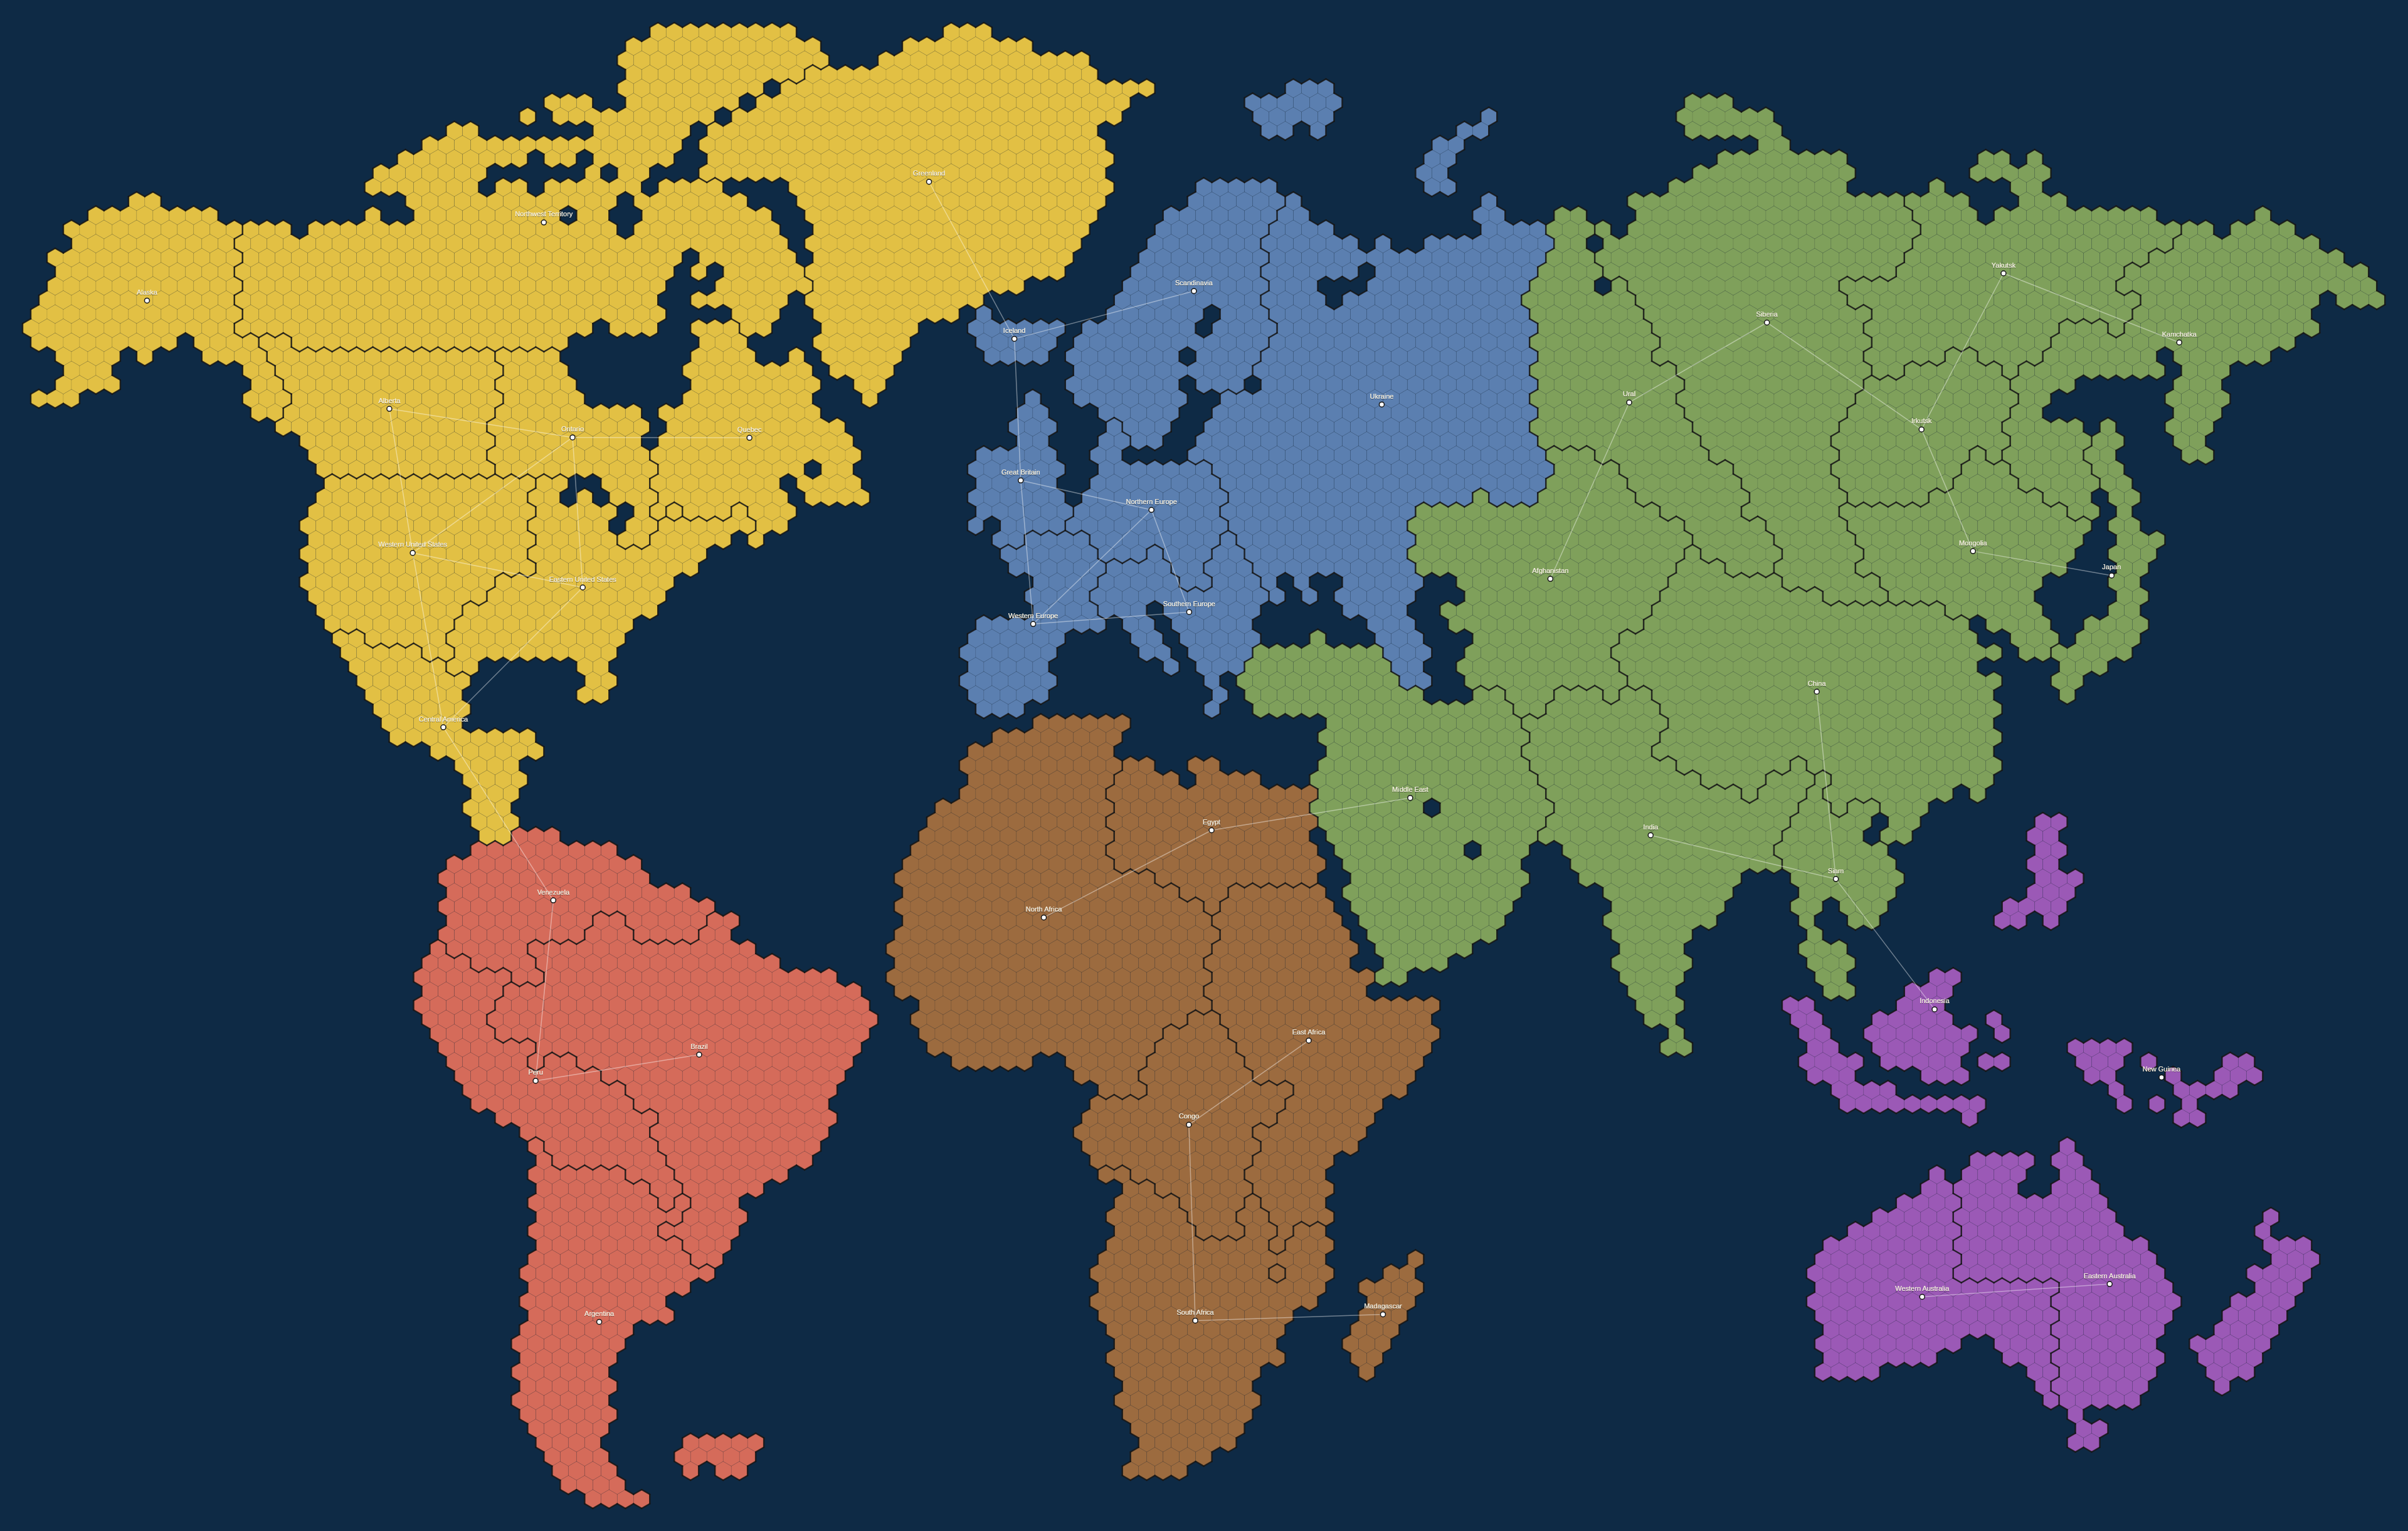
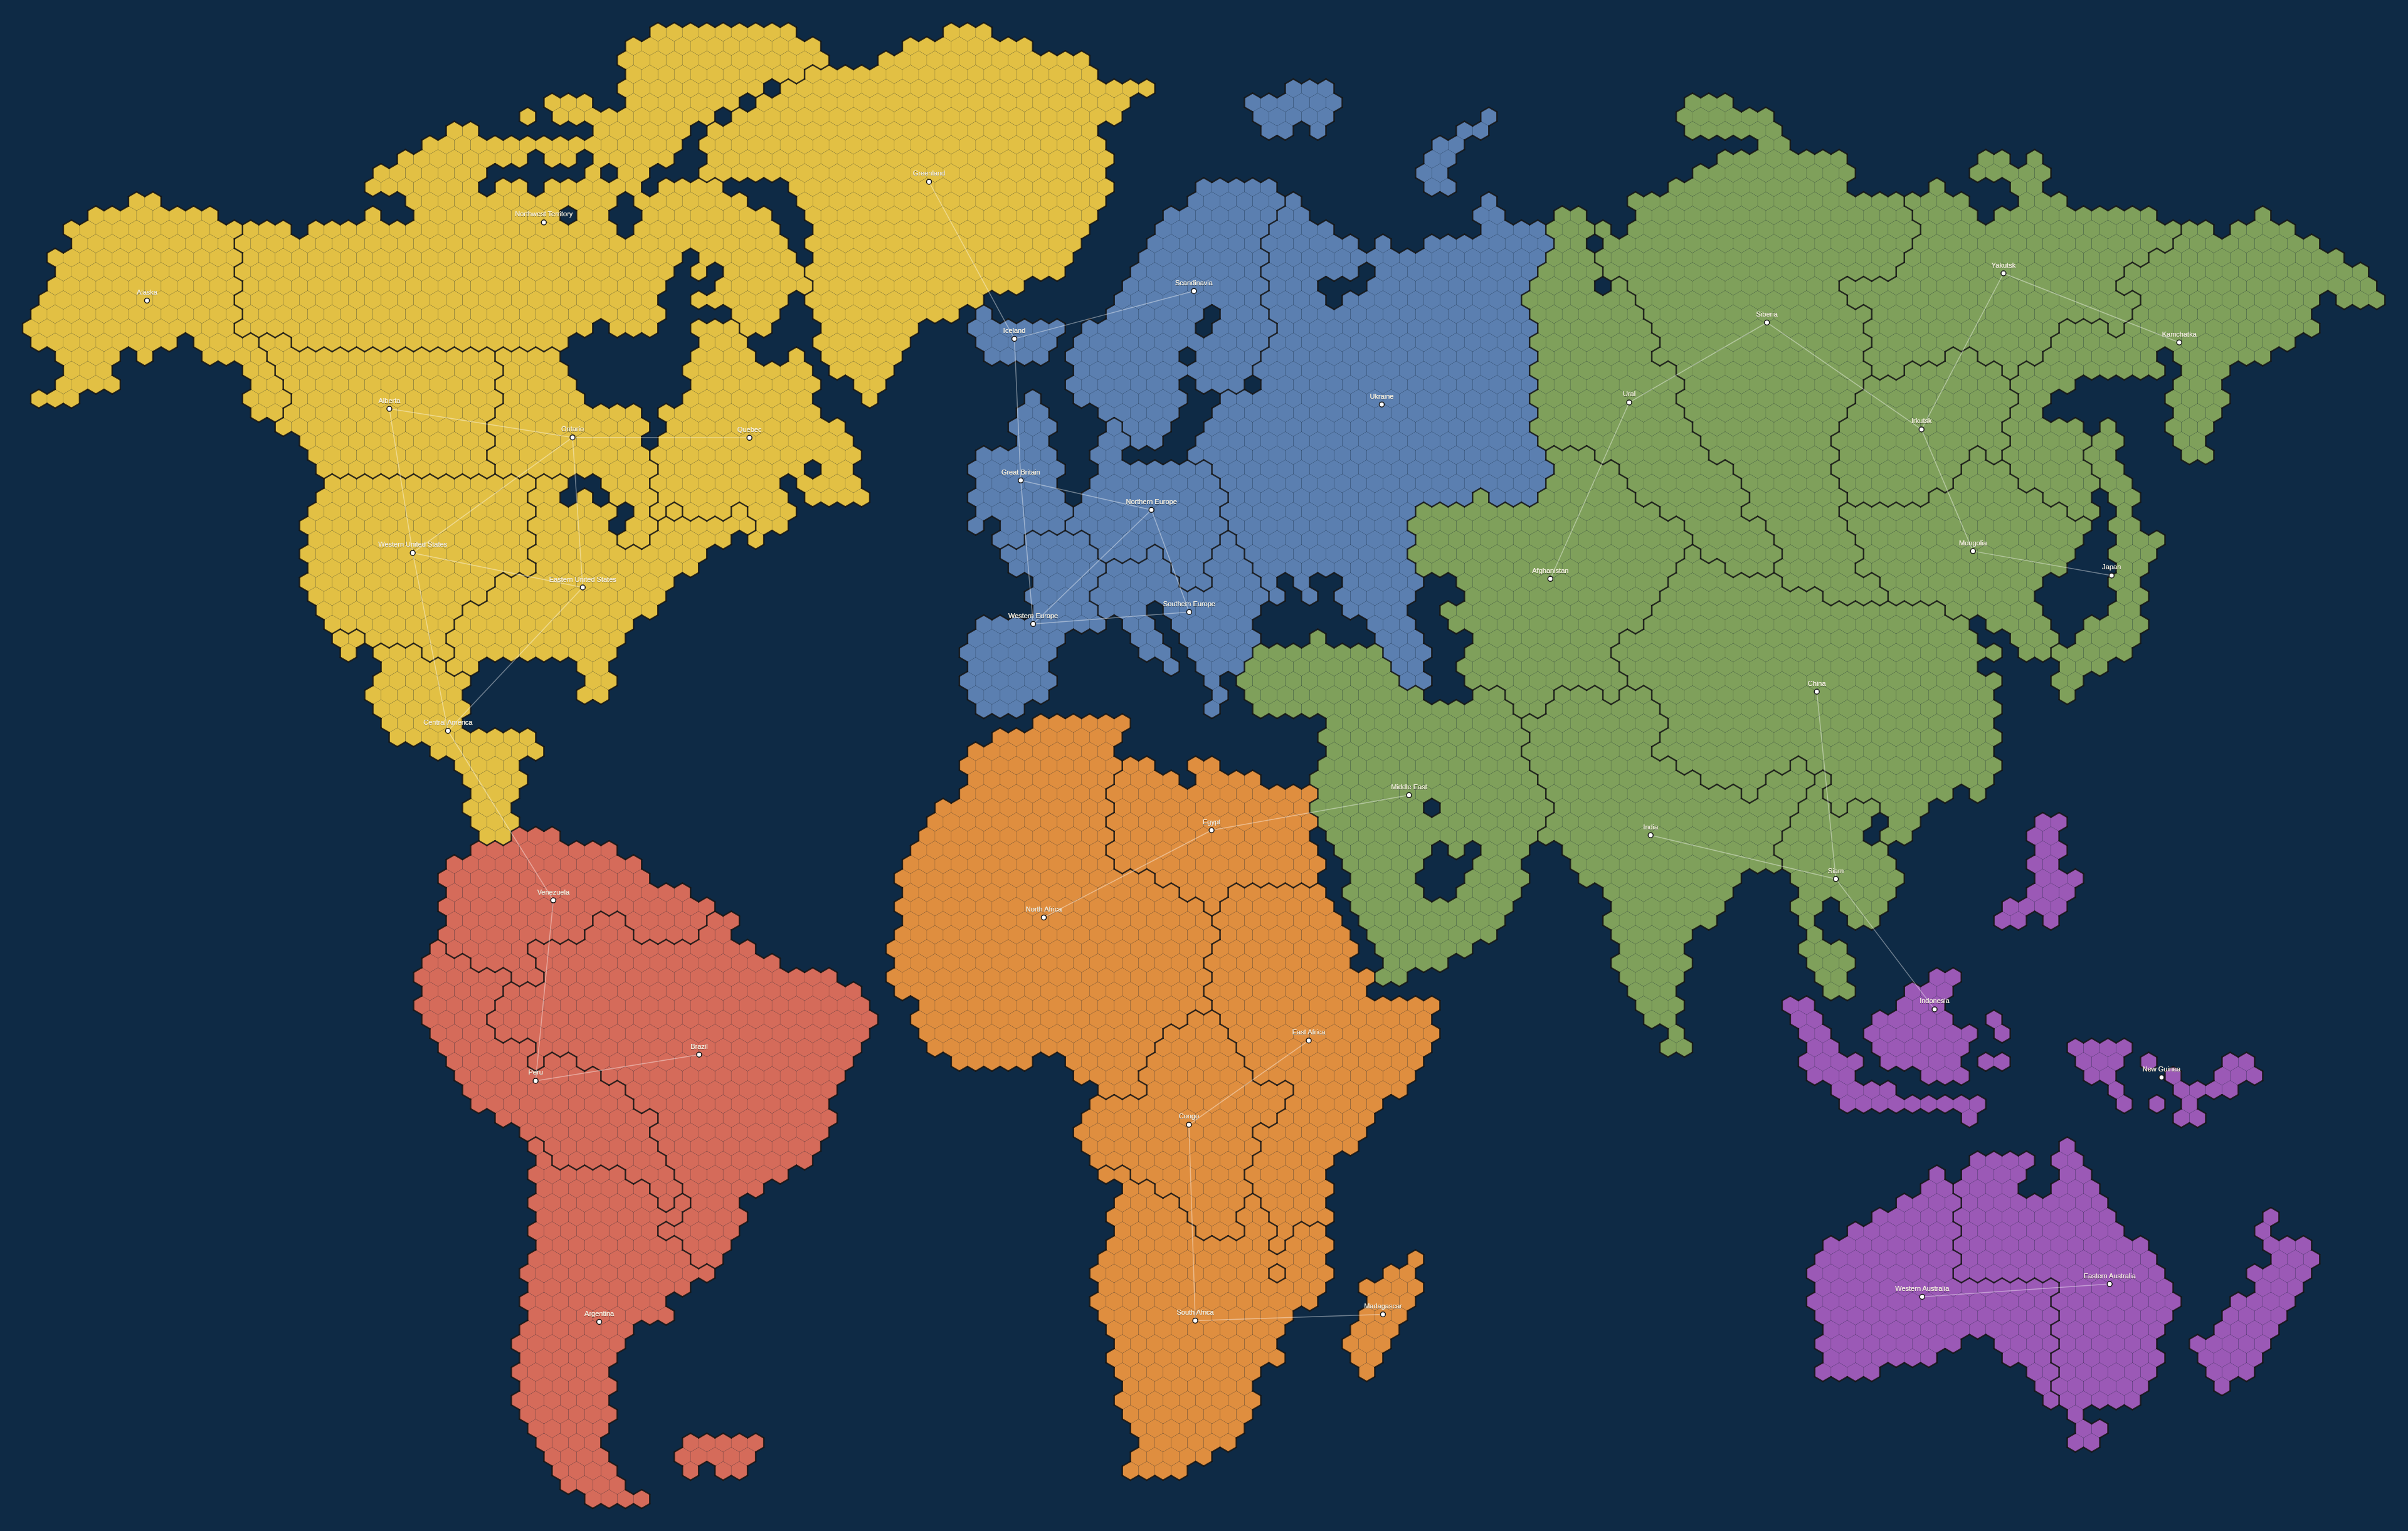
Aesthetics: light/dark theme, orange Africa, gulf seas, arced Bering edge
- Light/dark toggle in the HUD: light mode uses an off-white background and
  parchment ocean, dark edges; dark mode unchanged. Scene background, ocean,
  and graph-edge colour switch with the theme.
- Africa recoloured from brown to an orange that matches the continent tints.
- Added Gulf of California and Persian Gulf as a few carved ocean hexes
  (hand-placed extra seas in import-svg.mjs).
- The long Alaska–Kamchatka sea route now arcs up and over the map instead
  of cutting a straight line through other territories.

Claude-Session: https://claude.ai/code/session_016sjHzkKoWzqqP1Fyceoo1a

Changed region(s): [[0.3438, 0.4668, 0.625, 0.9648], [0.125, 0.4046, 0.1562, 0.4668]]

diff --git a/src/main.js b/src/main.js
@@ -123,17 +123,26 @@ for (const id of Object.keys(T)) {
   n.position.copy(centers[id]).setY(NODE_Y);
   graphGroup.add(n);
 }
-const edgePts = [];
+const edgeMat = new THREE.LineBasicMaterial({ color: 0xffffff, transparent: true, opacity: 0.4 });
+const straightPts = [];
 for (const id of Object.keys(T)) {
   for (const other of T[id].adjacent) {
     if (id >= other) continue;
-    edgePts.push(centers[id].clone().setY(NODE_Y), centers[other].clone().setY(NODE_Y));
+    const a = centers[id].clone().setY(NODE_Y), z = centers[other].clone().setY(NODE_Y);
+    const d = a.distanceTo(z);
+    if (d > span * 0.5) {
+      // long sea routes (e.g. Alaska–Kamchatka) arc up over the map so they
+      // stay visible and don't slice through other territories.
+      const mid = a.clone().add(z).multiplyScalar(0.5);
+      mid.y = NODE_Y + d * 0.5;
+      const curve = new THREE.QuadraticBezierCurve3(a, mid, z);
+      graphGroup.add(new THREE.Line(new THREE.BufferGeometry().setFromPoints(curve.getPoints(48)), edgeMat));
+    } else {
+      straightPts.push(a, z);
+    }
   }
 }
-const edges = new THREE.LineSegments(
-  new THREE.BufferGeometry().setFromPoints(edgePts),
-  new THREE.LineBasicMaterial({ color: 0xffffff, transparent: true, opacity: 0.4 })
-);
+const edges = new THREE.LineSegments(new THREE.BufferGeometry().setFromPoints(straightPts), edgeMat);
 graphGroup.add(edges);
 scene.add(graphGroup);
 
@@ -202,6 +211,25 @@ for (const [, c] of Object.entries(C)) {
 }
 document.getElementById('toggle-graph').addEventListener('change', (e) => graphGroup.visible = e.target.checked);
 document.getElementById('toggle-labels').addEventListener('change', (e) => labelGroup.visible = e.target.checked);
+
+// ---- light / dark theme ----
+const THEMES = {
+  dark:  { bg: '#0c2238', ocean: '#0e2a45', edge: 0xffffff, edgeOpacity: 0.40 },
+  light: { bg: '#f1ead7', ocean: '#f6f1e4', edge: 0x2b4a63, edgeOpacity: 0.55 },
+};
+function applyTheme(name) {
+  const t = THEMES[name];
+  scene.background.set(t.bg);
+  ocean.material.color.set(t.ocean);
+  edgeMat.color.setHex(t.edge);
+  edgeMat.opacity = t.edgeOpacity;
+  document.body.classList.toggle('light', name === 'light');
+  themeBtn.textContent = name === 'light' ? '◐ Dark' : '◑ Light';
+  themeBtn.dataset.mode = name;
+}
+const themeBtn = document.getElementById('theme');
+themeBtn.addEventListener('click', () => applyTheme(themeBtn.dataset.mode === 'light' ? 'dark' : 'light'));
+applyTheme('dark');
 
 addEventListener('resize', () => {
   camera.aspect = innerWidth / innerHeight;

diff --git a/index.html b/index.html
@@ -8,7 +8,8 @@
     :root { color-scheme: dark; }
     * { margin: 0; box-sizing: border-box; }
     html, body { height: 100%; background: #0c2238; overflow: hidden;
-      font-family: ui-sans-serif, system-ui, sans-serif; }
+      font-family: ui-sans-serif, system-ui, sans-serif; transition: background .25s; }
+    body.light { background: #f1ead7; }
     #app { position: fixed; inset: 0; }
     #hud {
       position: fixed; top: 14px; left: 14px; padding: 12px 14px;
@@ -16,11 +17,17 @@
       border-radius: 10px; color: #e8eef5; font-size: 13px; max-width: 260px;
       backdrop-filter: blur(4px);
     }
+    body.light #hud { background: rgba(252,248,238,0.82); border-color: rgba(0,0,0,0.12); color: #2a2620; }
     #hud h1 { font-size: 15px; margin-bottom: 6px; }
     #hud .row { display: flex; align-items: center; gap: 8px; margin: 3px 0; }
     #hud .sw { width: 13px; height: 13px; border-radius: 3px; }
     #hud .hint { margin-top: 8px; opacity: 0.7; font-size: 11px; line-height: 1.4; }
     #hud label { display: flex; align-items: center; gap: 6px; margin-top: 8px; cursor: pointer; }
+    #hud #theme {
+      margin-top: 10px; width: 100%; padding: 5px 8px; cursor: pointer; font: inherit; font-size: 12px;
+      background: rgba(255,255,255,0.10); color: inherit; border: 1px solid rgba(255,255,255,0.18); border-radius: 6px;
+    }
+    body.light #hud #theme { background: rgba(0,0,0,0.05); border-color: rgba(0,0,0,0.15); }
     #tooltip {
       position: fixed; pointer-events: none; padding: 4px 8px; font-size: 12px;
       background: rgba(0,0,0,0.8); color: #fff; border-radius: 5px; opacity: 0;
@@ -35,6 +42,7 @@
     <div id="legend"></div>
     <label><input type="checkbox" id="toggle-graph" checked /> Show graph overlay</label>
     <label><input type="checkbox" id="toggle-labels" checked /> Show labels</label>
+    <button id="theme" data-mode="dark">◑ Light</button>
     <div class="hint">Drag to orbit · scroll to zoom · hover a territory</div>
   </div>
   <div id="tooltip"></div>